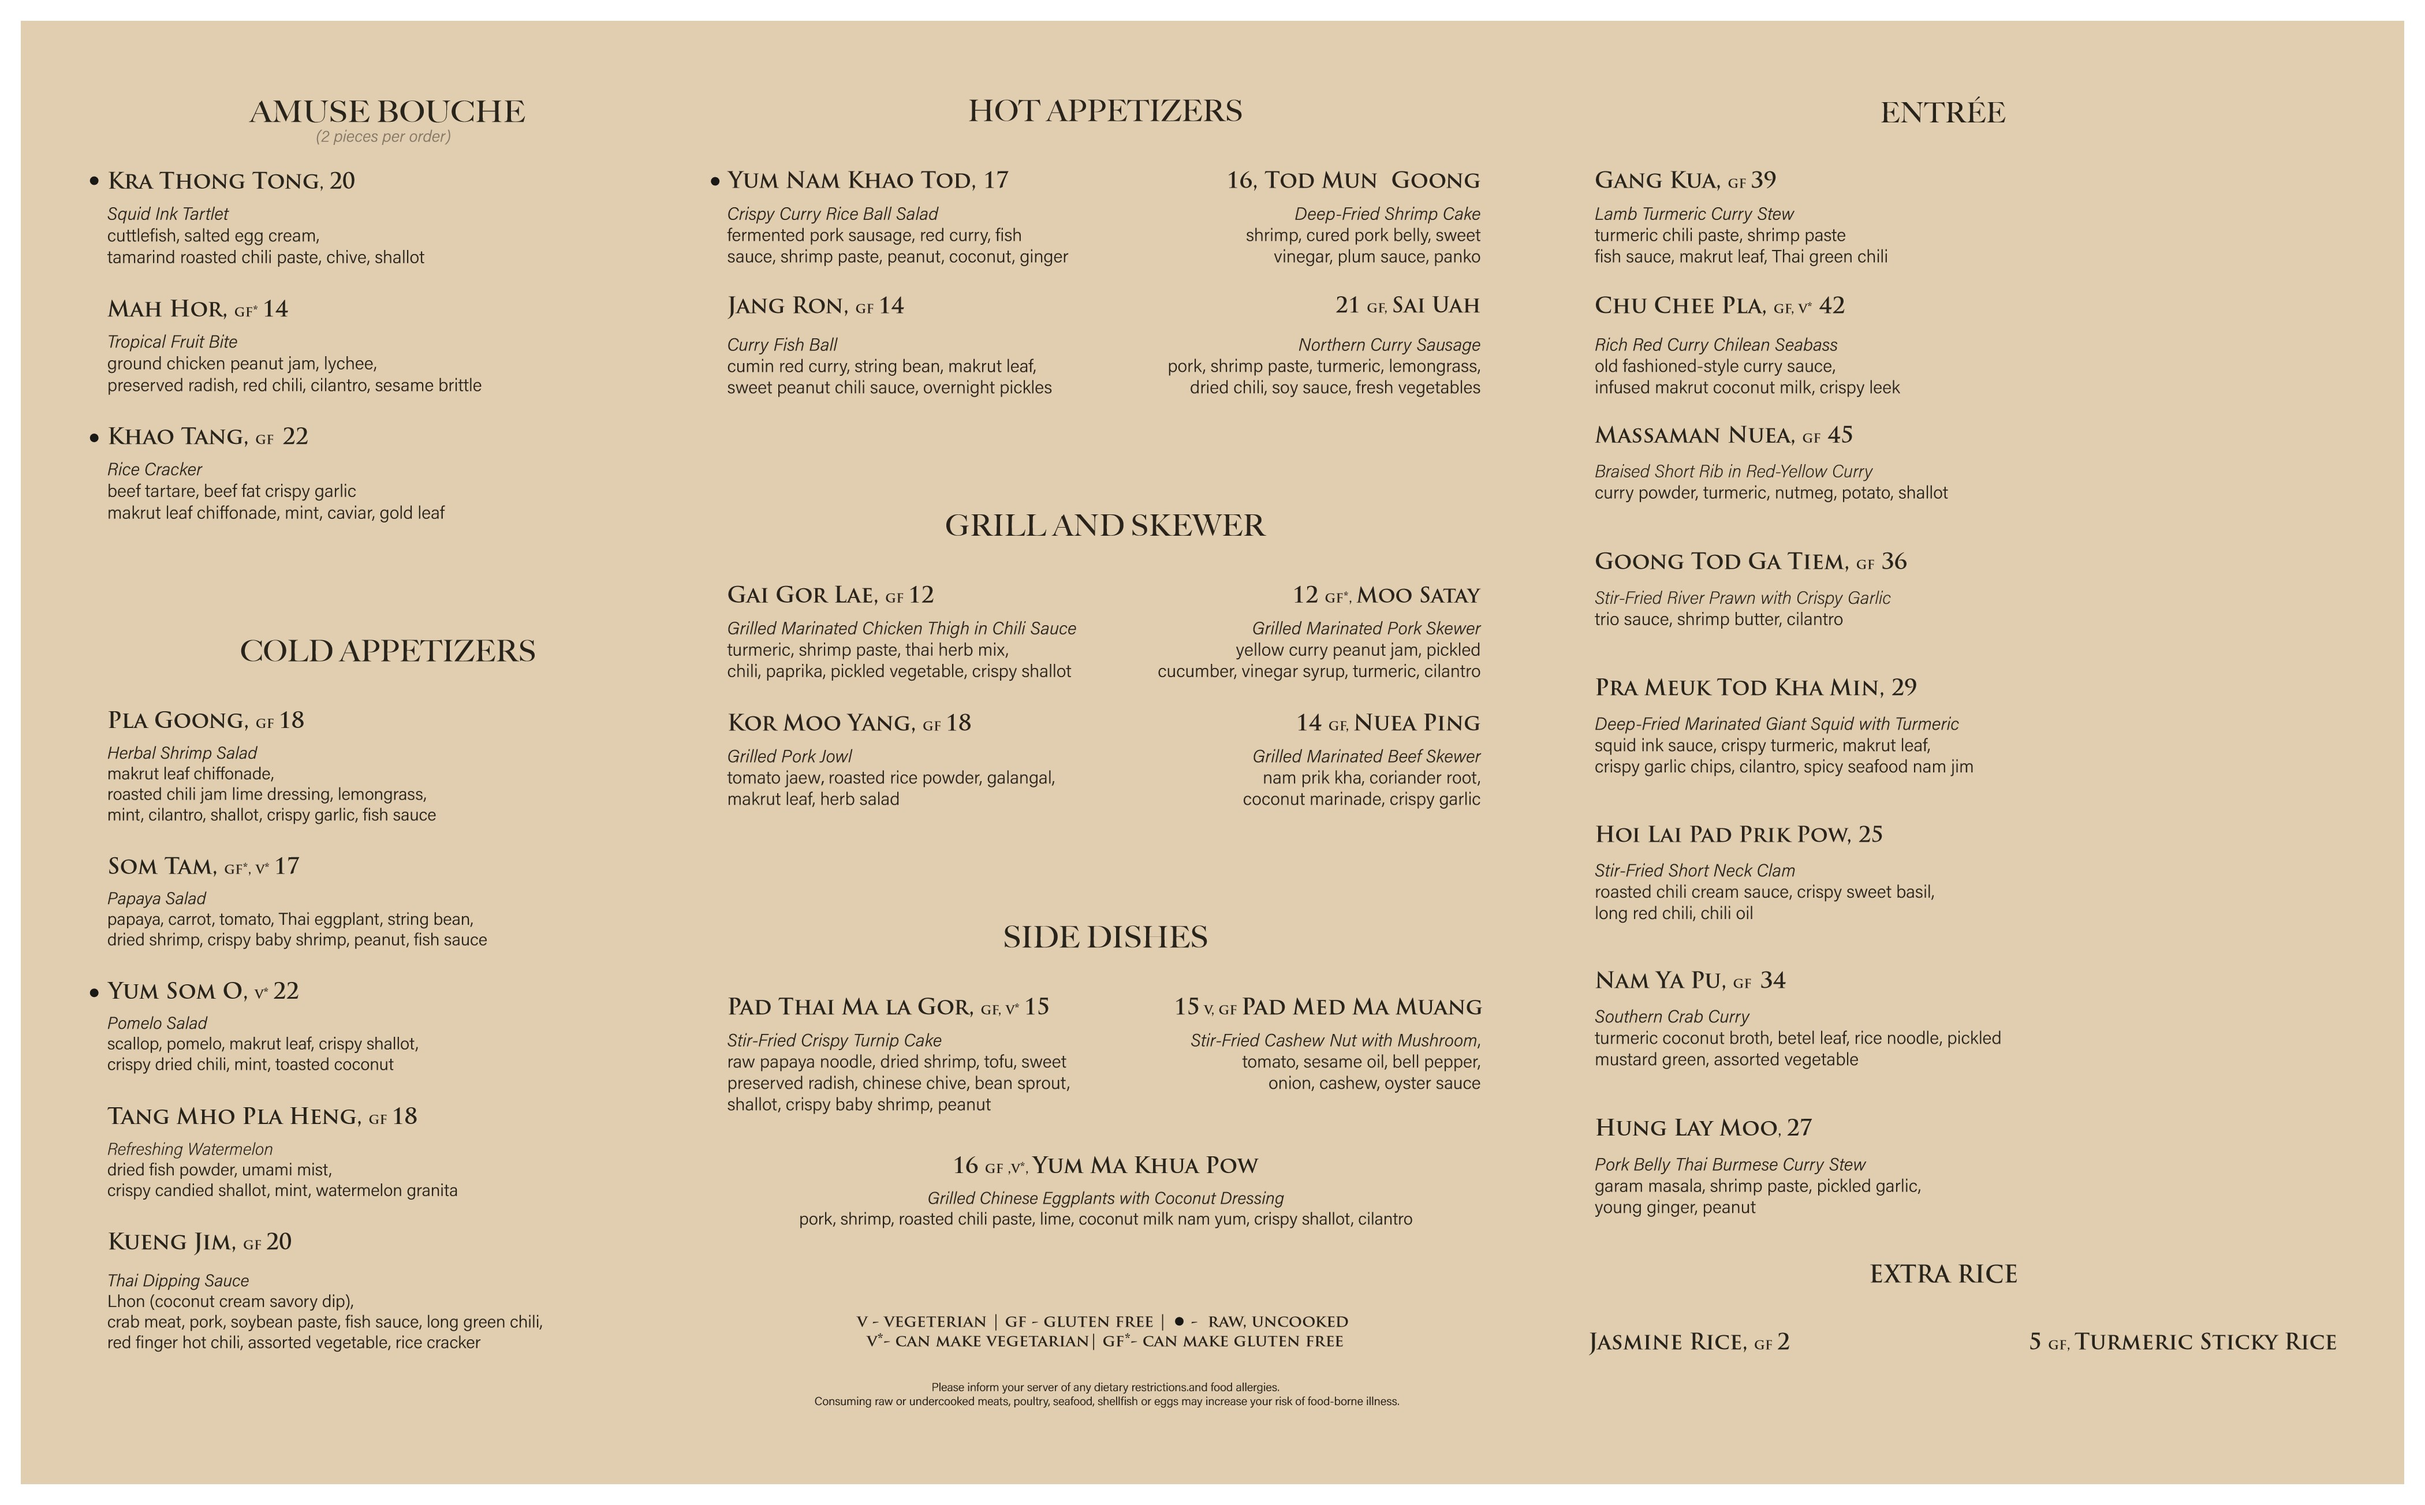
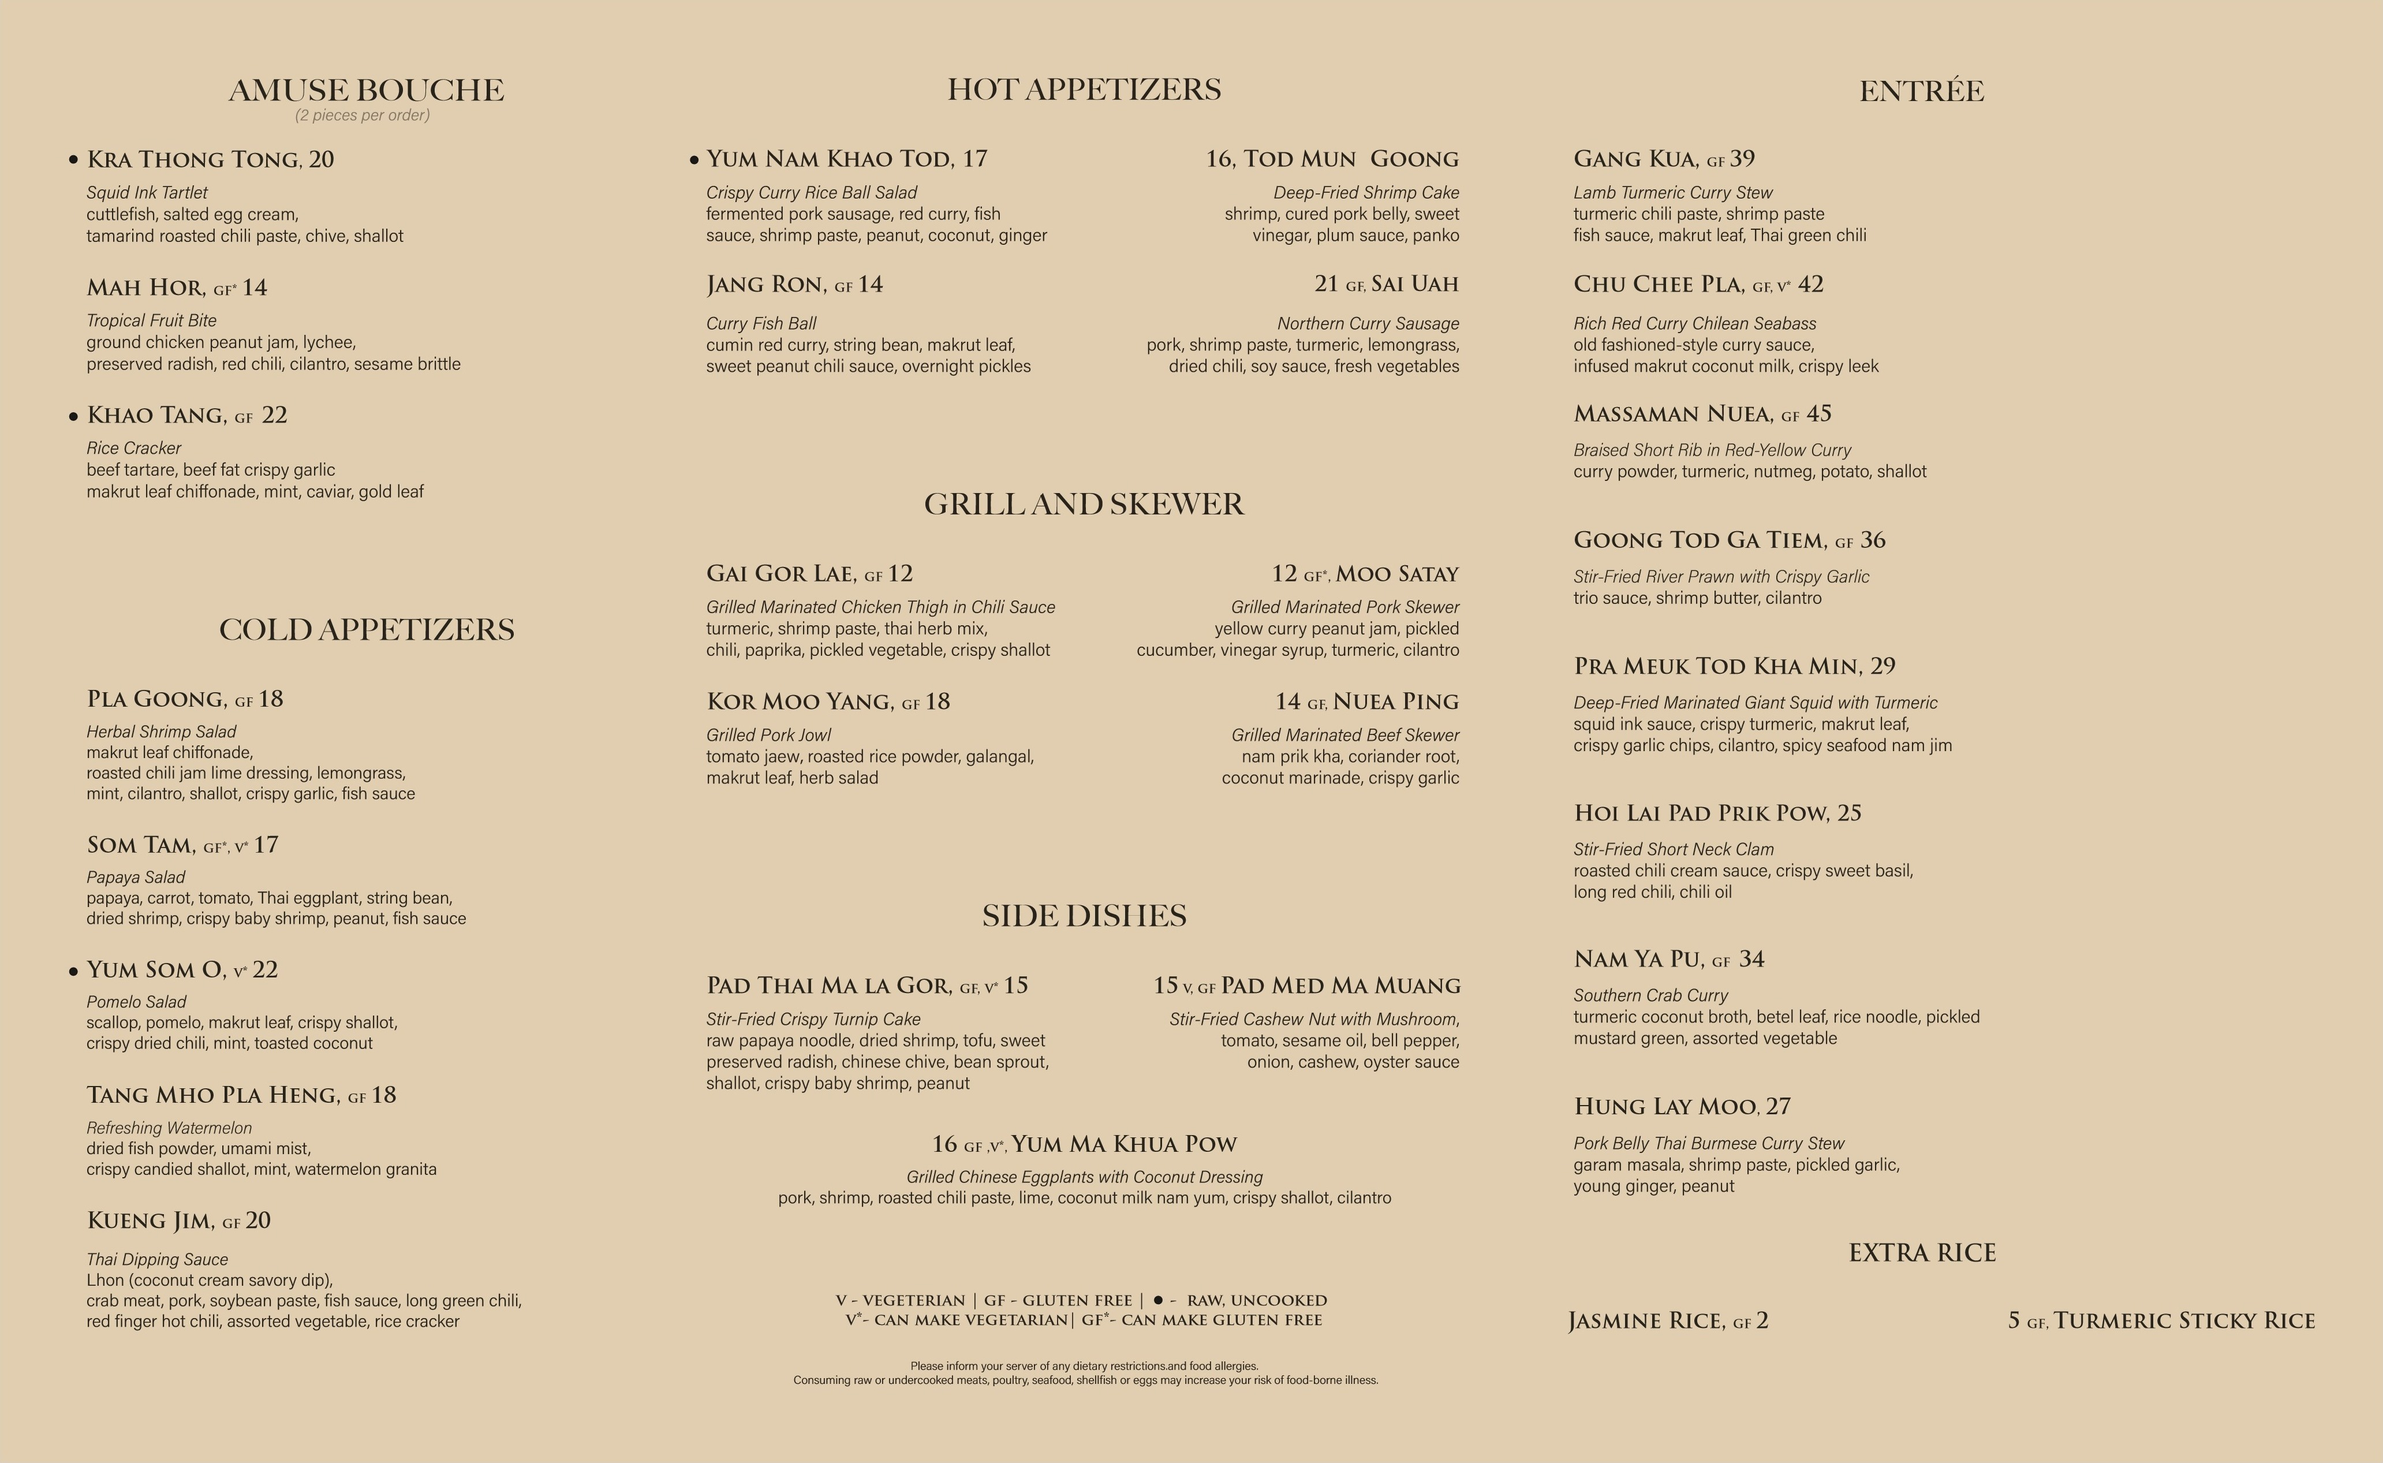
Crop menu image borders, match Tarra menu heights, scale menus down 10%.

diff --git a/css/style.css b/css/style.css
@@ -1057,6 +1057,7 @@ p { color:var(--white-soft); font-size:1rem; line-height:1.9; }
 .menu-stage__sheet {
   margin: 0;
   padding: 0;
+  overflow: hidden;
 }
 .menu-stage__sheet img {
   width: 100%;
@@ -1064,20 +1065,27 @@ p { color:var(--white-soft); font-size:1rem; line-height:1.9; }
   display: block;
   cursor: zoom-in;
 }
-.menu-stage > .menu-stage__sheet {
-  width: calc(100% - clamp(16px, 2.4vw, 40px));
-  margin: 0 auto;
+.menu-stage > .menu-stage__sheet,
+.menu-stage__split {
+  width: 90%;
+  margin-left: auto;
+  margin-right: auto;
 }
 .menu-stage__split {
-  display: grid;
-  grid-template-columns: 3fr 1fr;
-  gap: clamp(8px, 1vw, 16px);
-  align-items: start;
-  width: calc(100% - clamp(16px, 2.4vw, 40px));
-  margin: 0 auto;
+  display: flex;
+  align-items: stretch;
+  gap: clamp(8px, 0.8vw, 12px);
 }
-.menu-stage__sheet--tarra { background: #e4d9bd; }
-.menu-stage__sheet--sura { background: #0b1028; }
+.menu-stage__sheet--food {
+  flex: 1.629 0 0;
+  min-width: 0;
+}
+.menu-stage__sheet--drinks {
+  flex: 0.599 0 0;
+  min-width: 0;
+}
+.menu-stage__sheet--tarra { background: #e1d0b0; }
+.menu-stage__sheet--sura { background: #2d2e40; }
 
 .menu-list { padding:var(--section-pad); }
 .menu-list__intro { text-align:center; margin-bottom:80px; }
@@ -2145,7 +2153,7 @@ a.experience-card { text-decoration: none; color: inherit; }
   .chef-section__image img, .chef-bio__image img { width: 240px; }
   .menu-preview__grid { grid-template-columns:repeat(2,1fr); }
   .cocktails__grid { grid-template-columns:repeat(2,1fr); }
-  .menu-stage__split { gap: 10px; }
+  .menu-stage__split { gap: 8px; }
   .testimonials__grid { grid-template-columns:1fr; max-width:600px; margin:0 auto; }
   .footer__grid { grid-template-columns:repeat(2,1fr); }
   .gallery-page__grid { grid-template-columns:repeat(2,1fr); grid-auto-rows:260px; }
@@ -2228,8 +2236,13 @@ a.experience-card { text-decoration: none; color: inherit; }
   .menu-stage { padding: 110px 0 48px; }
   .menu-stage__header { margin-bottom: 28px; }
   .menu-stage__split {
-    grid-template-columns: 1fr;
+    flex-direction: column;
     gap: 16px;
+  }
+  .menu-stage__sheet--food,
+  .menu-stage__sheet--drinks {
+    flex: none;
+    width: 100%;
   }
   .menu-preview__grid { grid-template-columns:1fr; max-width:400px; margin:0 auto; gap: 16px; }
   .cocktails__grid { grid-template-columns:1fr; max-width:350px; margin:0 auto; }

diff --git a/menu.html b/menu.html
@@ -57,11 +57,11 @@
       <div class="gold-line-center" aria-hidden="true"></div>
     </header>
     <div class="menu-stage__split">
-      <figure class="menu-stage__sheet menu-stage__sheet--tarra reveal">
-        <img src="images/menus/tarra-menu-1.jpg" alt="Tarra dinner menu" width="4200" height="2607">
+      <figure class="menu-stage__sheet menu-stage__sheet--tarra menu-stage__sheet--food reveal">
+        <img src="images/menus/tarra-menu-1.jpg?v=2" alt="Tarra dinner menu" width="4128" height="2534">
       </figure>
-      <figure class="menu-stage__sheet menu-stage__sheet--tarra reveal">
-        <img src="images/menus/tarra-menu-2.jpg" alt="Tarra drinks menu" width="2100" height="3446">
+      <figure class="menu-stage__sheet menu-stage__sheet--tarra menu-stage__sheet--drinks reveal">
+        <img src="images/menus/tarra-menu-2.jpg?v=2" alt="Tarra drinks menu" width="2007" height="3352">
       </figure>
     </div>
   </section>

diff --git a/sura-menu.html b/sura-menu.html
@@ -57,7 +57,7 @@
       <div class="gold-line-center" aria-hidden="true"></div>
     </header>
     <figure class="menu-stage__sheet menu-stage__sheet--sura reveal">
-      <img src="images/menus/sura-menu.jpg" alt="Sura cocktail, wine, beer, and sake list" width="4800" height="2979">
+      <img src="images/menus/sura-menu.jpg?v=2" alt="Sura cocktail, wine, beer, and sake list" width="4714" height="2898">
     </figure>
   </section>
 
